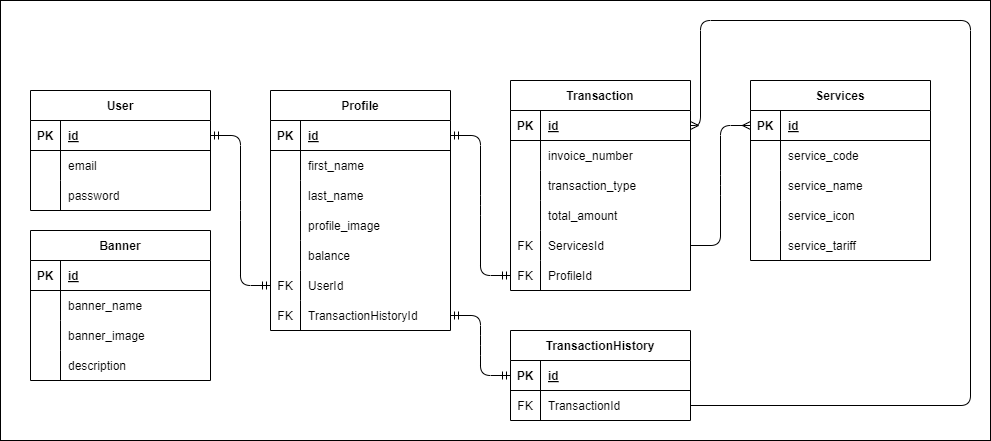
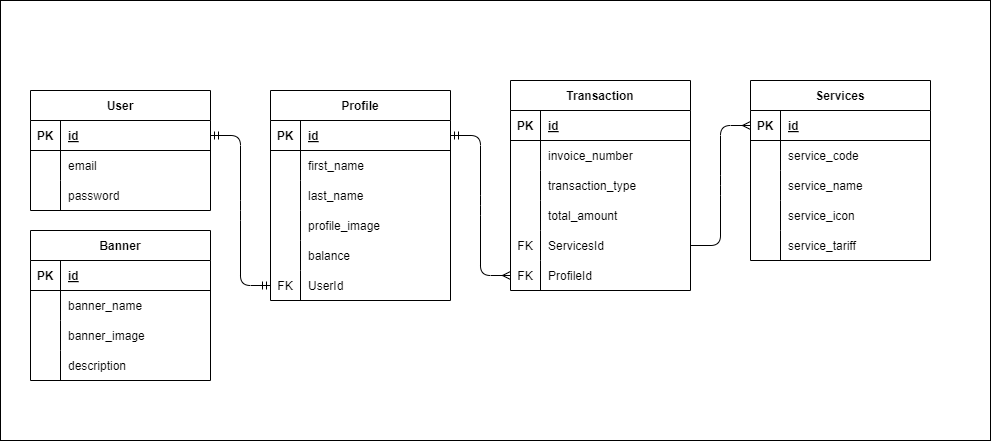
fix: entity relation

diff --git a/migrations/20250123210437-create-transaction.js b/migrations/20250123210437-create-transaction.js
@@ -2,30 +2,36 @@
 /** @type {import('sequelize-cli').Migration} */
 module.exports = {
   async up(queryInterface, Sequelize) {
-    await queryInterface.createTable('Profiles', {
+    await queryInterface.createTable('Transactions', {
       id: {
         allowNull: false,
         autoIncrement: true,
         primaryKey: true,
         type: Sequelize.INTEGER
       },
-      first_name: {
+      invoice_number: {
+        type: Sequelize.STRING,
+        unique: true
+      },
+      transaction_type: {
         type: Sequelize.STRING
       },
-      last_name: {
-        type: Sequelize.STRING
-      },
-      profile_image: {
-        type: Sequelize.STRING
-      },
-      balance: {
+      total_amount: {
         type: Sequelize.INTEGER
       },
-      UserId: {
-        type: Sequelize.INTEGER
+      ServicesId: {
+        type: Sequelize.INTEGER,
+        references: {
+          model: 'Services',
+          key: 'id'
+        }
       },
-      TransactionHistoryId: {
-        type: Sequelize.INTEGER
+      ProfileId: {
+        type: Sequelize.INTEGER,
+        references: {
+          model: 'Profiles',
+          key: 'id'
+        }
       },
       createdAt: {
         allowNull: false,
@@ -38,6 +44,6 @@ module.exports = {
     });
   },
   async down(queryInterface, Sequelize) {
-    await queryInterface.dropTable('Profiles');
+    await queryInterface.dropTable('Transactions');
   }
 };

diff --git a/migrations/20250123210432-create-profile.js b/migrations/20250123210432-create-profile.js
@@ -2,28 +2,31 @@
 /** @type {import('sequelize-cli').Migration} */
 module.exports = {
   async up(queryInterface, Sequelize) {
-    await queryInterface.createTable('Transactions', {
+    await queryInterface.createTable('Profiles', {
       id: {
         allowNull: false,
         autoIncrement: true,
         primaryKey: true,
         type: Sequelize.INTEGER
       },
-      invoice_number: {
-        type: Sequelize.STRING,
-        unique: true
-      },
-      transaction_type: {
+      first_name: {
         type: Sequelize.STRING
       },
-      total_amount: {
+      last_name: {
+        type: Sequelize.STRING
+      },
+      profile_image: {
+        type: Sequelize.STRING
+      },
+      balance: {
         type: Sequelize.INTEGER
       },
-      ServicesId: {
-        type: Sequelize.INTEGER
-      },
-      ProfileId: {
-        type: Sequelize.INTEGER
+      UserId: {
+        type: Sequelize.INTEGER,
+        references: {
+          model: 'Users',
+          key: 'id'
+        }
       },
       createdAt: {
         allowNull: false,
@@ -36,6 +39,6 @@ module.exports = {
     });
   },
   async down(queryInterface, Sequelize) {
-    await queryInterface.dropTable('Transactions');
+    await queryInterface.dropTable('Profiles');
   }
 };

diff --git a/models/profile.js b/models/profile.js
@@ -4,9 +4,8 @@ const { Model } = require("sequelize");
 module.exports = (sequelize, DataTypes) => {
   class Profile extends Model {
     static associate(models) {
-      Profile.hasOne(models.Transaction);
+      Profile.hasMany(models.Transaction);
       Profile.belongsTo(models.User);
-      Profile.belongsTo(models.TransactionHistory);
     }
   }
   Profile.init(
@@ -44,7 +43,6 @@ module.exports = (sequelize, DataTypes) => {
         defaultValue: 0,
       },
       UserId: DataTypes.INTEGER,
-      TransactionHistoryId: DataTypes.INTEGER,
     },
     {
       sequelize,

diff --git a/models/transaction.js b/models/transaction.js
@@ -3,7 +3,6 @@ const { Model } = require("sequelize");
 module.exports = (sequelize, DataTypes) => {
   class Transaction extends Model {
     static associate(models) {
-      Transaction.hasMany(models.TransactionHistory);
       Transaction.belongsTo(models.Services, { foreignKey: "ServicesId" });
       Transaction.belongsTo(models.Profile, { foreignKey: "ProfileId" });
     }
